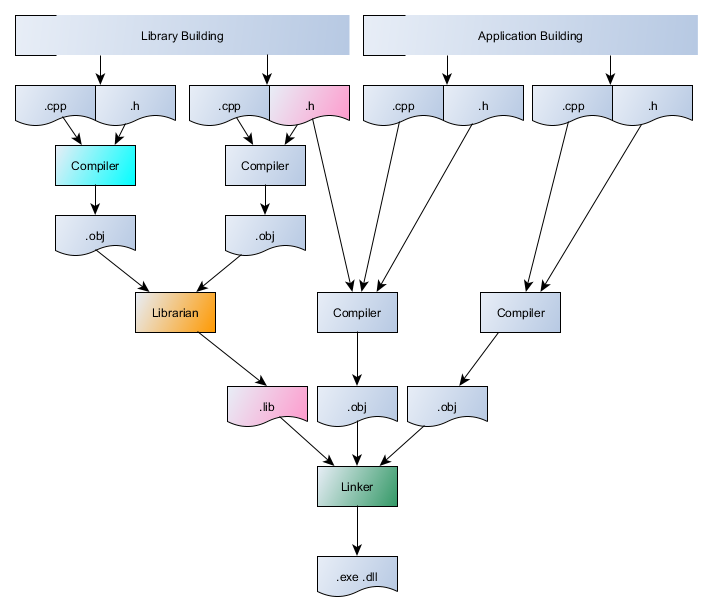
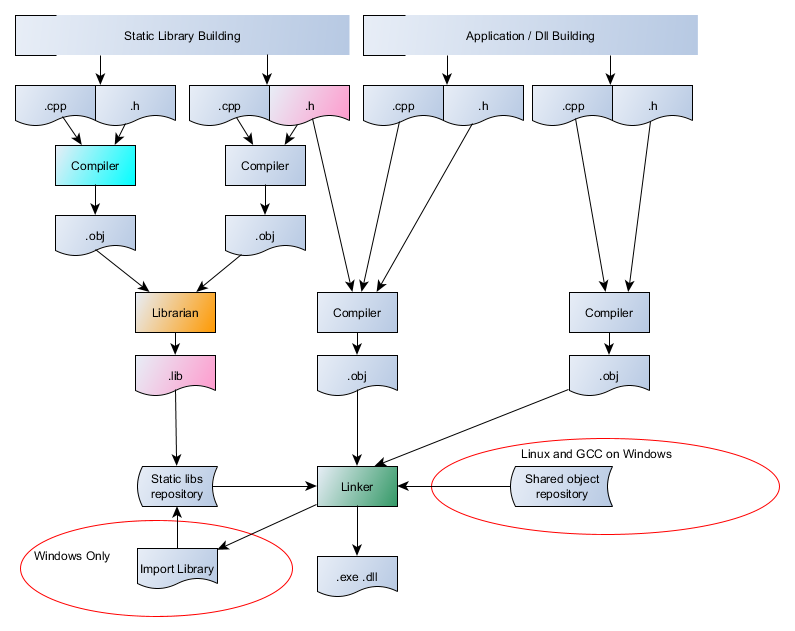
Update

diff --git a/Docs/CommandLine.md b/Docs/CommandLine.md
@@ -45,7 +45,7 @@ C++ supports separate compilation. We can split our program into several files, 
 
 ### Header file
 
-To make a compiler happy all in C++ must be declared before they can be used. Thus header files contains declarations of variables, functions and classes. They cannot contain definitions.
+To make a compiler happy all names in C++ must be declared before they can be used. Thus header files contains declarations of variables, functions and classes. They cannot contain definitions.
 There is more. See [Declarations and Definitions]({{site.baseurl}}/Docs/AdditionalReadingResources#c).
 
 ## Building binaries
@@ -57,7 +57,7 @@ the librarian:hammer:. **Remember these are command line tools.** Again a [**too
 Figure 1.2 The compile and link process.  
 
 The figure above presents **The Three Musketeers** (a compiler, librarian and linker) in action. On the left you see a process of creation of a static library, which is later linked to an executable or dynamic link library by the linker. Every program that uses a library facility must include its associated header.
-Therefore in the previous compilation stage of our application we had to include a library header.
+Therefore in the previous compilation stage of our application we had to include a library header. On Windows when a program contains exports additional [import library]({{site.baseurl}}/Docs/AdditionalReadingResources#MSVC-id) is created by the linker. An import library is a library that automates the process of loading and using a dynamic library. On Windows this is a small separated static library, the only exception is GCC which can links shared object (.so) directly. On linux a share object (.so) works as dynamic and import library and can be specified as input to the linker.
 
 ### Compilation process
 
@@ -137,12 +137,13 @@ Compile your source code again. Now, after we do that and assuming that we didn'
 
 ### Build static library
 
-Static libraries is a set of object files (with typical extension *.obj or *.o), composed into a single file. It should not contain any specifying storage-class information (__declspec or __attribute((dll...))).  
+Static libraries is a set of object files (with typical extension *.obj or *.o), composed into a single file (.lib). It should not contain any specifying storage-class information (__declspec or __attribute((dll...))).  
 Under construction
 
 ### Build dynamic library
 
-Under construction
+A dynamic library consists of code and data that are loaded into your application at run time. The structure of dynamic library is identical to the nature of executable, the only difference being that dynamic library lacks the startup routines. The dynamic library can't be started as independent
+program by platform alone.
 
 ## Build system
 

diff --git a/Docs/AdditionalReadingResources.md b/Docs/AdditionalReadingResources.md
@@ -47,6 +47,7 @@ next_page: Badge
 [Cmd](https://docs.microsoft.com/en-us/windows-server/administration/windows-commands/cmd)  
 [Setting the path and environment variables](https://docs.microsoft.com/en-us/cpp/build/setting-the-path-and-environment-variables-for-command-line-builds?view=vs-2017)  
 [MSVC Toolsets](https://blogs.msdn.microsoft.com/vcblog/2016/08/22/the-lightweight-visual-studio-15-installer/)  
+[Import library](https://docs.microsoft.com/en-us/cpp/build/reference/working-with-import-libraries-and-export-files?view=vs-2017)
 
 ## MSYS2 {#MSYS2-id}
 
